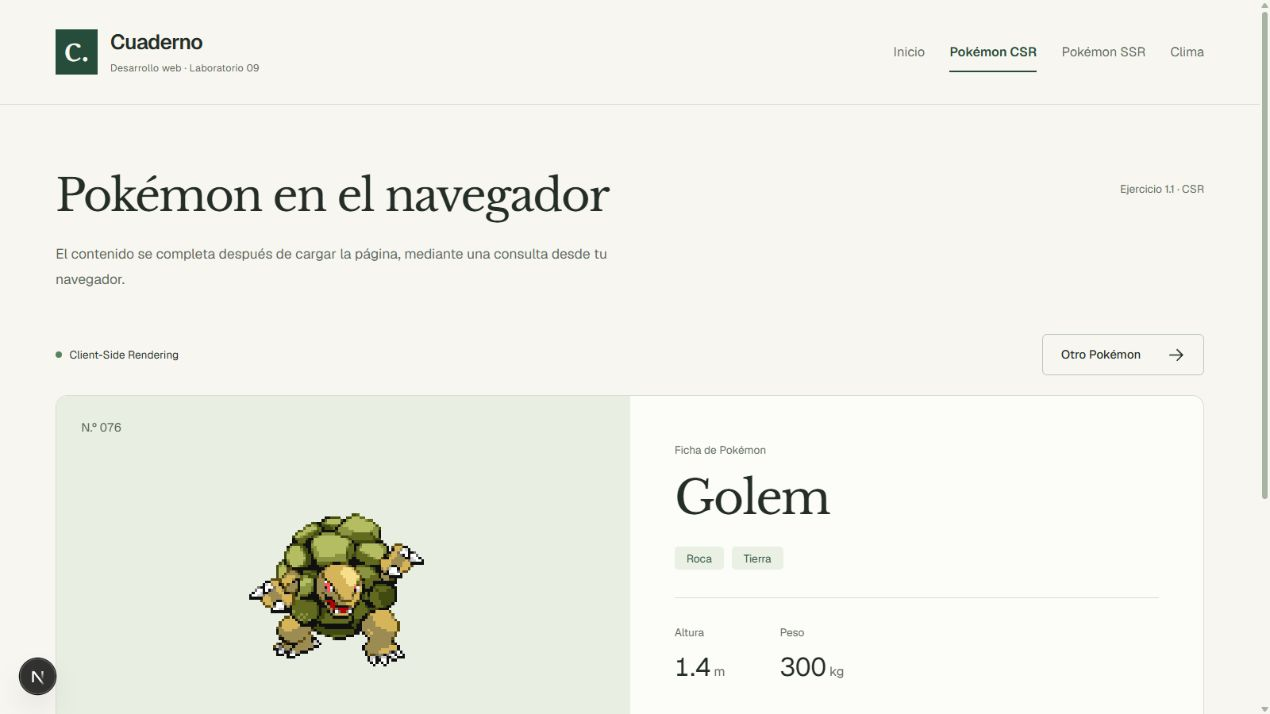
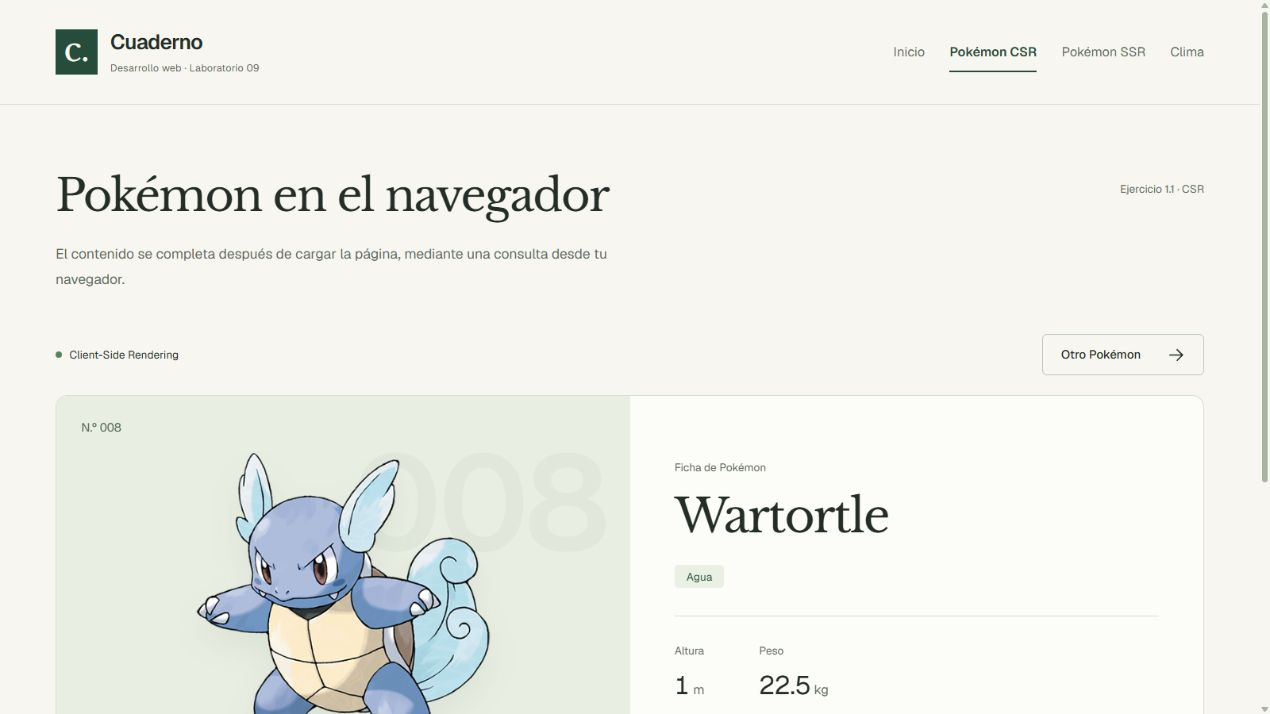
Mejora experiencia visual con carrusel Kanto y recorrido interactivo

diff --git a/app/globals.css b/app/globals.css
@@ -215,3 +215,144 @@ th:first-child, td:first-child { padding-left: 16px; }
   .button, .button svg, .exercise-row > svg, .text-link svg, .site-header nav a::after { transition: none; }
   .button:active:not(:disabled), .button:hover:not(:disabled) svg, .exercise-row:hover > svg, .text-link:hover svg { transform: none; }
 }
+
+/* Colección editorial y navegación por deslizamiento. */
+.immersive-home { padding-top: 28px; }
+.showcase { background: #254b3b; border-radius: 14px; overflow: hidden; color: #f8f4e7; }
+.showcase-track { display: flex; overflow-x: auto; scroll-snap-type: x mandatory; overscroll-behavior-x: contain; scrollbar-width: none; border-radius: 14px 14px 0 0; }
+.showcase-track::-webkit-scrollbar { display: none; }
+.showcase-slide { position: relative; flex: 0 0 100%; min-width: 0; display: grid; grid-template-columns: 1.1fr 1fr; min-height: 520px; scroll-snap-align: start; scroll-snap-stop: always; overflow: hidden; }
+.showcase-slide.fern { background: #254b3b; }
+.showcase-slide.ember { background: #694734; }
+.showcase-slide.tide { background: #2e5358; }
+.showcase-copy { padding: 64px 0 54px 52px; position: relative; z-index: 2; align-self: center; }
+.showcase-copy h1 { font-size: clamp(34px, 4.25vw, 57px); line-height: 1.25; letter-spacing: -.035em; }
+.showcase-copy h1 > span { display: block; }
+.showcase-copy h1 em { color: #d1dfb7; }
+.ember .showcase-copy h1 em { color: #f1c794; }
+.tide .showcase-copy h1 em { color: #b9d9d5; }
+.showcase-copy > p { color: #e0e7d7; max-width: 40ch; line-height: 1.9; font-size: 13px; margin: 25px 0 30px; }
+.showcase-cta { color: #263b2c; background: #e4ebce; border-color: #e4ebce; min-height: 46px; }
+.showcase-art { position: relative; align-self: stretch; min-width: 0; display: flex; align-items: center; justify-content: center; padding: 34px 20px 55px 0; }
+.art-number { position: absolute; top: 28px; right: 20px; font-size: clamp(100px, 14vw, 185px); font-weight: 500; letter-spacing: -.04em; color: #ffffff0e; line-height: 1; user-select: none; }
+.art-orbit { position: absolute; width: 85%; aspect-ratio: 1; border: 1px solid #d5e5be30; border-radius: 50%; transform: rotate(-25deg) scaleY(.77); }
+.art-orbit::after { content: ""; position: absolute; width: 105%; height: 100%; border: 1px solid #d5e5be20; border-radius: 50%; transform: rotate(50deg); }
+.showcase-pokemon { position: relative; z-index: 1; width: 105%; max-width: 465px; height: auto; object-fit: contain; filter: drop-shadow(0 24px 19px #10231735); transform: rotate(-7deg); transition: transform 280ms var(--ease-out); }
+.art-caption { position: absolute; bottom: 28px; right: 32px; left: 32px; display: flex; align-items: baseline; justify-content: space-between; gap: 15px; }
+.art-caption strong { font: 400 24px var(--font-editorial),serif; letter-spacing: -.025em; }
+.art-caption > span { font-size: 10px; color: #e0e7d7; }
+.showcase-controls { display: flex; align-items: center; justify-content: space-between; padding: 20px 30px 20px 50px; background: #1e3e31; border-top: 1px solid #7e9b7940; gap: 20px; }
+.collection-caption { display: flex; align-items: center; gap: 10px; font-size: 10px; color: #e0e7d7; }
+.collection-dot { width: 5px; height: 5px; border-radius: 50%; background: #c3d1a3; }
+.collection-separator { color: #97ac91; margin: 0 3px; }
+.carousel-navigation { display: flex; gap: 10px; align-items: center; }
+.carousel-count { font-size: 11px; font-variant-numeric: tabular-nums; margin-right: 16px; }
+.carousel-count > span { color: #b5c6ac; }
+.circle-button { border: 1px solid #9db29180; width: 42px; height: 42px; flex-shrink: 0; padding: 0; display: inline-flex; align-items: center; justify-content: center; border-radius: 50%; color: #eff4e7; background: transparent; transition: background-color 160ms ease,transform 160ms var(--ease-out); }
+.circle-button.previous svg { transform: rotate(180deg); }
+.circle-button:disabled { cursor: default; opacity: .3; }
+.circle-button:active:not(:disabled) { transform: scale(.95); }
+.carousel-dots { display: flex; margin-right: 14px; }
+.carousel-dots button { width: 22px; height: 42px; position: relative; border: 0; background: transparent; padding: 0; }
+.carousel-dots button::after { content: ""; position: absolute; width: 5px; height: 5px; background: #8b9f83; border-radius: 50%; top: 18px; left: 8px; transition: transform 160ms var(--ease-out), background-color 160ms ease; }
+.carousel-dots button.active::after { background: #ecf2d9; transform: scale(1.6); }
+.edition-line { display: flex; justify-content: space-between; gap: 20px; padding: 23px 2px; color: var(--muted); font-size: 10px; }
+.edition-scroll { display: inline-flex; align-items: center; gap: 12px; }
+.edition-scroll span { color: var(--green); font-size: 17px; line-height: 1; }
+.journey { display: grid; grid-template-columns: 1fr 1.2fr; gap: 70px; padding: 70px 0 72px; margin-top: 10px; border-bottom: 1px solid var(--line); }
+.journey h2, .climate-invitation h2 { font: 400 clamp(29px,3.2vw,42px)/1.35 var(--font-editorial),serif; letter-spacing: -.035em; }
+.journey h2 em, .climate-invitation h2 em { color: var(--green); }
+.journey-intro > p { color: var(--muted); font-size: 13px; line-height: 1.85; margin-top: 20px; }
+.segmented-control { display: inline-flex; background: #e9ede2; padding: 4px; gap: 3px; border-radius: 7px; margin-top: 25px; }
+.segmented-control button { border: 0; border-radius: 5px; background: transparent; color: #54614f; min-height: 40px; padding: 8px 20px; font-size: 12px; transition: background-color 160ms ease,color 160ms ease; }
+.segmented-control button[aria-pressed=true] { background: #fcfcf8; color: var(--green); box-shadow: 0 2px 5px #1e382610; }
+.journey-steps { list-style: none; padding: 0; margin: 0 0 23px; }
+.journey-steps li { display: flex; align-items: flex-start; gap: 20px; padding-bottom: 30px; position: relative; }
+.journey-steps li:not(:last-child)::after { content: ""; position: absolute; left: 17px; top: 37px; bottom: 3px; border-left: 1px solid #bac9ae; }
+.journey-step-number { height: 35px; width: 35px; flex-shrink: 0; border: 1px solid #bac9ae; border-radius: 50%; display: flex; align-items: center; justify-content: center; font-size: 11px; color: var(--green); }
+.journey-steps h3 { font-size: 16px; font-weight: 500; margin-top: 2px; }
+.journey-steps p { font-size: 12px; color: var(--muted); margin-top: 7px; }
+.journey-content { padding-top: 8px; }
+.immersive-home .exercise-section { margin-top: 64px; scroll-margin-top: 30px; }
+.immersive-home .exercise-row { padding-top: 29px; padding-bottom: 29px; }
+.climate-invitation { margin-top: 65px; display: grid; grid-template-columns: 1fr 1fr; align-items: center; gap: 50px; padding: 45px; background: #e9ede2; border-radius: 12px; overflow: hidden; }
+.climate-invitation p { font-size: 13px; color: var(--muted); max-width: 42ch; line-height: 1.9; margin: 20px 0 25px; }
+.climate-type { display: flex; flex-direction: column; align-items: flex-end; gap: 4px; transform: rotate(-9deg); user-select: none; }
+.climate-type span { font: 400 clamp(30px,5vw,60px)/1.05 var(--font-editorial),serif; letter-spacing: -.04em; color: #b7c5ab; }
+.climate-type span:first-child { color: #264d3c; }
+.climate-type span:nth-child(2n) { margin-right: 60px; }
+.specimen { min-height: 415px; overflow: hidden; }
+.specimen-watermark { position: absolute; top: 40px; right: 25px; font-size: 135px; line-height: 1; color: #244c3b0a; letter-spacing: -.04em; font-weight: 600; }
+.pokemon-image.official-artwork { width: 330px; height: 330px; image-rendering: auto; position: relative; z-index: 1; filter: drop-shadow(0 16px 15px #264d3c12); }
+.city-shortcuts { display: flex; flex-wrap: wrap; gap: 6px; margin-top: 23px; }
+.city-shortcuts button { border: 1px solid #d1dac9; border-radius: 5px; background: transparent; padding: 7px 10px; color: #52654c; font-size: 10px; min-height: 34px; transition: background-color 160ms ease,color 160ms ease; }
+.city-shortcuts button[aria-pressed=true] { background: #264d3c; color: #f7f6f0; border-color: #264d3c; }
+.weather-grid { align-items: stretch; }
+.lima-panel { display: flex; flex-direction: column; }
+.lima-panel > .data-reveal { flex: 1; display: flex; flex-direction: column; justify-content: center; }
+.lima-panel > .data-reveal .weather-reading { flex: 1; }
+@media (hover:hover) and (pointer:fine) {
+  .showcase-cta:hover:not(:disabled) { background: #f2f4e4; border-color: #f2f4e4; }
+  .circle-button:hover:not(:disabled) { background: #ffffff12; }
+  .showcase-art:hover .showcase-pokemon { transform: rotate(-3deg) translateY(-5px); }
+  .city-shortcuts button:hover { background: #e5eddf; color: #264d3c; }
+  .city-shortcuts button[aria-pressed=true]:hover { background: #1e3e31; color: #f7f6f0; }
+}
+@media (max-width:1000px) {
+  .showcase-copy { padding-left: 32px; }
+  .showcase-slide { min-height: 475px; }
+  .showcase-copy h1 { font-size: 41px; }
+  .showcase-controls { padding-left: 32px; }
+  .collection-caption > span:last-child, .collection-separator { display: none; }
+  .journey { gap: 40px; }
+}
+@media (max-width:640px) {
+  .immersive-home { padding-top: 18px; }
+  .showcase-slide { grid-template-columns: 1fr; min-height: auto; align-content: start; }
+  .showcase-copy { padding: 33px 25px 8px; }
+  .showcase-copy h1 { font-size: 34px; }
+  .showcase-copy > p { font-size: 12px; margin: 18px 0 23px; max-width: 42ch; }
+  .showcase-art { height: 290px; padding: 0 25px 35px; }
+  .showcase-pokemon { width: 260px; max-height: 265px; }
+  .art-orbit { width: 230px; }
+  .art-number { font-size: 120px; top: 20px; right: 25px; }
+  .art-caption { bottom: 14px; left: 25px; right: 25px; }
+  .art-caption strong { font-size: 20px; }
+  .showcase-controls { padding: 13px 17px; gap: 8px; }
+  .collection-caption { font-size: 9px; gap: 6px; }
+  .carousel-count { margin-right: 0; font-size: 10px; }
+  .carousel-navigation { gap: 7px; }
+  .carousel-dots { display: none; }
+  .circle-button { width: 42px; height: 42px; }
+  .edition-line { font-size: 9px; padding: 20px 0; }
+  .edition-line > span:nth-child(2) { display: none; }
+  .edition-scroll { gap: 6px; }
+  .journey { grid-template-columns: 1fr; gap: 30px; padding: 35px 0 38px; margin-top: 0; }
+  .journey h2, .climate-invitation h2 { font-size: 32px; }
+  .journey-intro > p br { display: none; }
+  .journey-intro > p { margin-top: 16px; }
+  .journey-steps li { padding-bottom: 25px; gap: 16px; }
+  .journey-steps h3 { font-size: 15px; }
+  .journey-steps p { font-size: 11px; }
+  .immersive-home .exercise-section { margin-top: 36px; }
+  .immersive-home .exercise-section .section-heading { flex-direction: column; gap: 5px; }
+  .climate-invitation { grid-template-columns: 1fr; padding: 28px; margin-top: 38px; position: relative; }
+  .climate-type { display: none; }
+  .specimen { min-height: 310px; }
+  .pokemon-image.official-artwork { width: 260px; height: 260px; }
+  .specimen-watermark { font-size: 110px; top: 45px; }
+  .select-field select { font-size: 16px; min-width: 125px; }
+  .city-shortcuts button { min-height: 40px; }
+  .site-footer { padding-bottom: max(22px,env(safe-area-inset-bottom)); }
+}
+@media (prefers-reduced-motion:reduce) {
+  .showcase-track { scroll-behavior: auto; }
+  .showcase-pokemon,.circle-button,.carousel-dots button::after { transition: none; }
+  .showcase-art:hover .showcase-pokemon { transform: rotate(-7deg); }
+}
+@media (min-width:1001px) {
+  .showcase-slide { min-height: 460px; }
+  .showcase-art { padding-top: 15px; }
+  .showcase-pokemon { max-width: 400px; }
+  .showcase-copy { padding-top: 44px; padding-bottom: 44px; }
+}

diff --git a/app/components/Showcase.tsx b/app/components/Showcase.tsx
@@ -1,0 +1,32 @@
+"use client";
+
+import Image from "next/image";
+import Link from "next/link";
+import { useRef, useState } from "react";
+import { Arrow } from "./Elements";
+
+const collection = [
+  { id: 1, name: "Bulbasaur", type: "Planta · Veneno", color: "fern", title: "Todo empieza\ncon una elección.", description: "Tres Pokémon iniciales. Dos formas de renderizar. Una nueva manera de observar lo que ocurre detrás de una página." },
+  { id: 4, name: "Charmander", type: "Fuego", color: "ember", title: "El contenido\ncobra vida.", description: "Primero la interfaz. Después los datos. Descubre cómo el navegador completa una página sin tener que recargarla." },
+  { id: 7, name: "Squirtle", type: "Agua", color: "tide", title: "Otra perspectiva.\nEl mismo mundo.", description: "El servidor también puede preparar el contenido. Compara ambos enfoques y encuentra el origen de cada consulta." },
+];
+
+export default function Showcase() {
+  const track = useRef<HTMLDivElement>(null);
+  const [active, setActive] = useState(0);
+  function go(index: number) {
+    const target = track.current;
+    if (!target) return;
+    const reduced = window.matchMedia("(prefers-reduced-motion: reduce)").matches;
+    target.scrollTo({ left: index * target.clientWidth, behavior: reduced ? "instant" : "smooth" });
+  }
+  return <section className="showcase" aria-roledescription="carrusel" aria-label="Los Pokémon iniciales de Kanto">
+    <div className="showcase-track" ref={track} tabIndex={0} aria-label="Desliza para explorar los Pokémon" onScroll={e => { const node = e.currentTarget; setActive(Math.round(node.scrollLeft / node.clientWidth)); }} onKeyDown={e => { if (e.key === "ArrowRight" || e.key === "ArrowLeft") { e.preventDefault(); go(Math.min(2, Math.max(0, active + (e.key === "ArrowRight" ? 1 : -1)))); } }}>
+      {collection.map((pokemon, index) => <article key={pokemon.id} className={`showcase-slide ${pokemon.color}`} aria-roledescription="diapositiva" aria-label={`${index + 1} de 3: ${pokemon.name}`} inert={active !== index}>
+        <div className="showcase-copy"><h1>{pokemon.title.split("\n").map((line, i) => <span key={line}>{i === 1 ? <em>{line}</em> : line}</span>)}</h1><p>{pokemon.description}</p><Link href={index === 2 ? "/pokemon-ssr" : "/pokemon-csr"} prefetch={false} className="button showcase-cta">{index === 2 ? "Explorar en el servidor" : "Explorar en el navegador"}<Arrow /></Link></div>
+        <div className="showcase-art"><span className="art-number" aria-hidden="true">{String(pokemon.id).padStart(3,"0")}</span><div className="art-orbit" aria-hidden="true" /><Image src={`https://raw.githubusercontent.com/PokeAPI/sprites/master/sprites/pokemon/other/official-artwork/${pokemon.id}.png`} alt={`Ilustración oficial de ${pokemon.name}`} width={475} height={475} unoptimized priority={index === 0} className="showcase-pokemon" /><div className="art-caption"><strong>{pokemon.name}</strong><span>{pokemon.type}</span></div></div>
+      </article>)}
+    </div>
+    <div className="showcase-controls"><div className="collection-caption"><span className="collection-dot" />Colección Kanto<span className="collection-separator">/</span><span>Pokémon iniciales</span></div><div className="carousel-navigation"><span className="carousel-count" aria-live="polite">0{active + 1}<span> / 03</span></span><div className="carousel-dots">{collection.map((item,index) => <button key={item.id} className={index === active ? "active" : ""} aria-label={`Ver ${item.name}`} aria-pressed={index === active} onClick={() => go(index)} />)}</div><button className="circle-button previous" aria-label="Pokémon anterior" disabled={active === 0} onClick={() => go(active - 1)}><Arrow /></button><button className="circle-button" aria-label="Pokémon siguiente" disabled={active === 2} onClick={() => go(active + 1)}><Arrow /></button></div></div>
+  </section>;
+}

diff --git a/app/page.tsx b/app/page.tsx
@@ -1,15 +1,20 @@
 import Link from "next/link";
 import { Arrow } from "./components/Elements";
+import Showcase from "./components/Showcase";
+import RenderJourney from "./components/RenderJourney";
 
 export default function Home() {
-  return <main className="page home-page">
-    <section className="home-intro"><h1>Una página.<br />Dos formas de<br /><em>construirla.</em></h1><div className="home-summary"><p>El mismo contenido puede empezar en el servidor o en tu navegador. Aquí puedes observar la diferencia.</p><Link className="button button-green" href="/pokemon-csr" prefetch={false}>Explorar los ejercicios <Arrow /></Link><span className="home-caption">Pokémon, clima y renderizado con Next.js.</span></div></section>
-    <section className="exercise-section" aria-labelledby="exercise-title"><div className="section-heading"><h2 id="exercise-title">Los ejercicios</h2><span>Conceptos y aplicación</span></div>
+  return <main className="page home-page immersive-home">
+    <Showcase />
+    <div className="edition-line"><span>Un cuaderno de exploración digital</span><span>Next.js · Laboratorio 09</span><a href="#ejercicios" className="edition-scroll">Descubrir los ejercicios <span aria-hidden="true">↓</span></a></div>
+    <RenderJourney />
+    <section className="exercise-section" id="ejercicios" aria-labelledby="exercise-title"><div className="section-heading"><h2 id="exercise-title">De la idea a la experiencia.</h2><span>Tres ejercicios para explorar</span></div>
       {[
         ["1.1", "/pokemon-csr", "Pokémon en el navegador", "La página aparece primero; el navegador consulta los datos después.", "CSR"],
         ["1.1", "/pokemon-ssr", "Pokémon desde el servidor", "El servidor obtiene el Pokémon y entrega su contenido como HTML.", "SSR"],
         ["2.1", "/weather", "Un clima, dos enfoques", "Lima desde el servidor. Cuatro ciudades para consultar sin recargar.", "Híbrido"],
       ].map(([number, href, title, description, mode]) => <Link className="exercise-row" href={href} key={href} prefetch={false}><span className="exercise-number">{number}</span><div><h3>{title}</h3><p>{description}</p></div><span className="mode-tag">{mode}</span><Arrow /></Link>)}
     </section>
+    <section className="climate-invitation"><div><h2>De Kanto<br /><em>al resto del mundo.</em></h2><p>Consulta el clima de Lima y explora Tokio, Nueva York, Londres y Sídney en un dashboard híbrido.</p><Link href="/weather" className="button button-green" prefetch={false}>Abrir el observatorio <Arrow /></Link></div><div className="climate-type" aria-hidden="true"><span>LIM</span><span>TYO</span><span>LON</span><span>NYC</span><span>SYD</span></div></section>
   </main>;
 }

diff --git a/app/weather/ClientWeatherWidget.tsx b/app/weather/ClientWeatherWidget.tsx
@@ -39,6 +39,7 @@ export default function ClientWeatherWidget() {
   return <section className="weather-panel world-panel" aria-labelledby="world-title">
     <div className="panel-top"><span className="status-label"><i />Consulta en el navegador</span><span className="mode-tag">CSR</span></div>
     <div className="city-selection"><div><h2 id="world-title">El mundo</h2><p>{cities[city].country}</p></div><div className="select-field"><label htmlFor="city">Seleccionar ciudad</label><select id="city" value={city} onChange={e => { setError(false); setCity(e.target.value as City); }}>{Object.entries(cities).map(([key, value]) => <option key={key} value={key}>{value.label}</option>)}</select></div></div>
+    <div className="city-shortcuts" aria-label="Ciudades disponibles">{Object.entries(cities).map(([key, value]) => <button key={key} aria-pressed={city === key} onClick={() => { setError(false); setCity(key as City); }}>{value.label}</button>)}</div>
     <div className="world-reading" aria-live="polite" aria-busy={loading}>
       {error ? <div role="alert" className="weather-error"><p>No se pudo consultar esta ciudad.</p><button className="button" onClick={() => { setError(false); setResult(null); setRetry(value => value + 1); }}>Reintentar</button></div> : loading ? <div role="status" className="weather-loading"><span className="loading-line" /><p>Consultando {cities[city].label}…</p></div> : current ? <div className="weather-reading data-reveal" key={city}><div><p className="temperature">{current.temperature}<span>°C</span></p><p className="weather-description">{weatherDescription(current.weathercode)}</p></div><WeatherSymbol code={current.weathercode} /></div> : null}
     </div>

diff --git a/app/components/PokemonRecord.tsx b/app/components/PokemonRecord.tsx
@@ -4,9 +4,12 @@ import type { Pokemon } from "@/app/lib/pokemon";
 const typeNames: Record<string, string> = { normal: "Normal", fire: "Fuego", water: "Agua", electric: "Eléctrico", grass: "Planta", ice: "Hielo", fighting: "Lucha", poison: "Veneno", ground: "Tierra", flying: "Volador", psychic: "Psíquico", bug: "Bicho", rock: "Roca", ghost: "Fantasma", dragon: "Dragón", dark: "Siniestro", steel: "Acero", fairy: "Hada" };
 
 export default function PokemonRecord({ pokemon }: { pokemon: Pokemon }) {
+  const artwork = pokemon.sprites.other?.["official-artwork"]?.front_default;
+  const image = artwork || pokemon.sprites.front_default;
   return <article className="pokemon-record data-reveal">
     <div className="specimen"><span className="specimen-id">N.º {String(pokemon.id).padStart(3, "0")}</span>
-      {pokemon.sprites.front_default ? <Image src={pokemon.sprites.front_default} alt={pokemon.name} width={288} height={288} unoptimized className="pokemon-image" /> : <p>Imagen no disponible</p>}
+      <span className="specimen-watermark" aria-hidden="true">{String(pokemon.id).padStart(3, "0")}</span>
+      {image ? <Image src={image} alt={pokemon.name} width={380} height={380} unoptimized className={`pokemon-image${artwork ? " official-artwork" : ""}`} /> : <p>Imagen no disponible</p>}
       <span className="specimen-caption">Registro de la región de Kanto</span>
     </div>
     <div className="specimen-details"><span className="record-label">Ficha de Pokémon</span><h2 className="pokemon-name">{pokemon.name}</h2><div className="type-list">{pokemon.types.map(({ type }) => <span key={type.name}>{typeNames[type.name] ?? type.name}</span>)}</div>

diff --git a/app/components/RenderJourney.tsx b/app/components/RenderJourney.tsx
@@ -1,0 +1,11 @@
+"use client";
+
+import { useState } from "react";
+import Link from "next/link";
+import { Arrow } from "./Elements";
+
+export default function RenderJourney() {
+  const [mode, setMode] = useState<"CSR" | "SSR">("CSR");
+  const steps = mode === "CSR" ? [["La página llega", "Una interfaz inicial, todavía sin los datos."], ["El navegador consulta", "useEffect inicia la petición a la API."], ["El contenido aparece", "React actualiza la ficha sin recargar."]] : [["El servidor consulta", "La petición a la API ocurre en el servidor."], ["Los datos se renderizan", "El servidor construye el contenido de la ficha."], ["El HTML llega", "El navegador recibe el contenido preparado."]];
+  return <section className="journey" aria-labelledby="journey-title"><div className="journey-intro"><h2 id="journey-title">Lo que ves.<br /><em>Lo que ocurre.</em></h2><p>El resultado se parece.<br />El recorrido de los datos cambia.</p><div className="segmented-control" aria-label="Estrategia de renderizado">{(["CSR", "SSR"] as const).map(value => <button key={value} aria-pressed={mode === value} onClick={() => setMode(value)}>{value === "CSR" ? "Navegador" : "Servidor"}</button>)}</div></div><div className="journey-content"><ol className="journey-steps">{steps.map(([title, description], index) => <li key={index}><span className="journey-step-number">{index + 1}</span><div><h3>{title}</h3><p>{description}</p></div></li>)}</ol><Link className="text-link" href={mode === "CSR" ? "/pokemon-csr" : "/pokemon-ssr"} prefetch={false}>Ver {mode} en acción <Arrow /></Link></div></section>;
+}

diff --git a/app/lib/pokemon.ts b/app/lib/pokemon.ts
@@ -3,6 +3,6 @@ export interface Pokemon {
   name: string;
   height: number;
   weight: number;
-  sprites: { front_default: string | null };
+  sprites: { front_default: string | null; other?: { "official-artwork"?: { front_default: string | null } } };
   types: { type: { name: string } }[];
 }

diff --git a/DESIGN.md b/DESIGN.md
@@ -7,3 +7,11 @@ Navegación horizontal común; índice editorial de ejercicios; ficha Pokémon e
 Movimiento: aparición de resultados con opacidad y desplazamiento de 7 px en 240 ms; curva cubic-bezier(0.23,1,0.32,1). Feedback de controles entre 140 y 180 ms. Indicador de consulta mientras hay peticiones. Sin movimiento decorativo continuo. prefers-reduced-motion elimina desplazamientos e indicadores animados.
 
 Datos reales de PokeAPI y Open-Meteo; errores con reintento. CSR conserva useEffect; SSR conserva connection y Suspense. La navegación tiene aria-current y enlaces sin precarga para facilitar la comparación del laboratorio.
+
+## Colección y recorrido de datos
+
+Portada con carrusel nativo scroll-snap: tres Pokémon iniciales, flechas, indicadores, navegación con teclas izquierda/derecha y gesto de desplazamiento. No hay reproducción automática. Los elementos de las diapositivas fuera de vista usan inert para no entrar en el orden de foco. prefers-reduced-motion usa desplazamiento inmediato. Las ilustraciones provienen del repositorio oficial de sprites de PokeAPI.
+
+La comparación Navegador/Servidor cambia los pasos y el enlace del ejercicio. No genera consultas a APIs. Las fichas prefieren official-artwork y conservan el sprite como alternativa. El clima incorpora accesos directos a las cuatro ciudades.
+
+Verificación: lint y build correctos. Navegador de escritorio: flechas del carrusel, actualización de indicadores y comparación interactiva. La adaptación móvil usa una columna y desplazamiento nativo; el gesto táctil requiere comprobación en un teléfono real.
